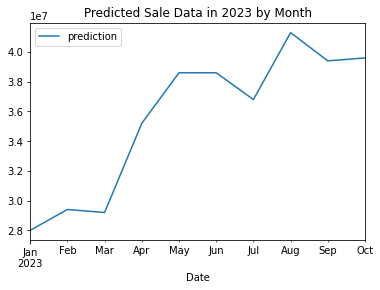
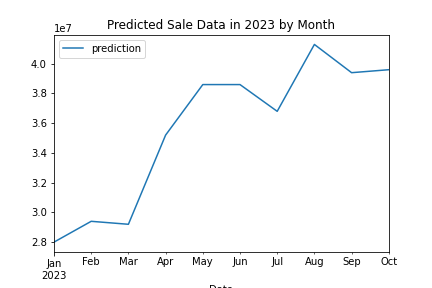
README of the overview part

diff --git a/src/Overview_Sale_By_Month/README.md b/src/Overview_Sale_By_Month/README.md
@@ -1,0 +1,14 @@
+# Overview of History Sale Data and Its Trend
+
+Before we dive into any deeper analysis, we would like to have an overview of the history sale data, and see whether there is a particular pattern of how the total sale changes.
+
+By using Spark to aggregate the sale by year and month, the below curve can be plotted:
+
+![](./graphs/history_sale.png)
+
+There's obviously a pattern: the amount of sale changes in similar way within each year, and the overall trend is steadily increasing. 
+
+Therefore, we are also interested in using some machine learning model to forecast next year's monthly total sale. We used a SQLTransformer to get total sale of same month in last year, by joining the DataFrame with itself. And then we assembled year, month of year, and total sale of same month in last year into a feature vector, and picked Gradient-Boosted Trees as the regressor, to construct a Spark Machine Learning pipeline. We trained the model using existing data, and got a r2 = 0.8286264488949292. Finally we used the model to predict total sale in 2023, and got the below curve:
+
+![](./graphs/prediction.png)
+
